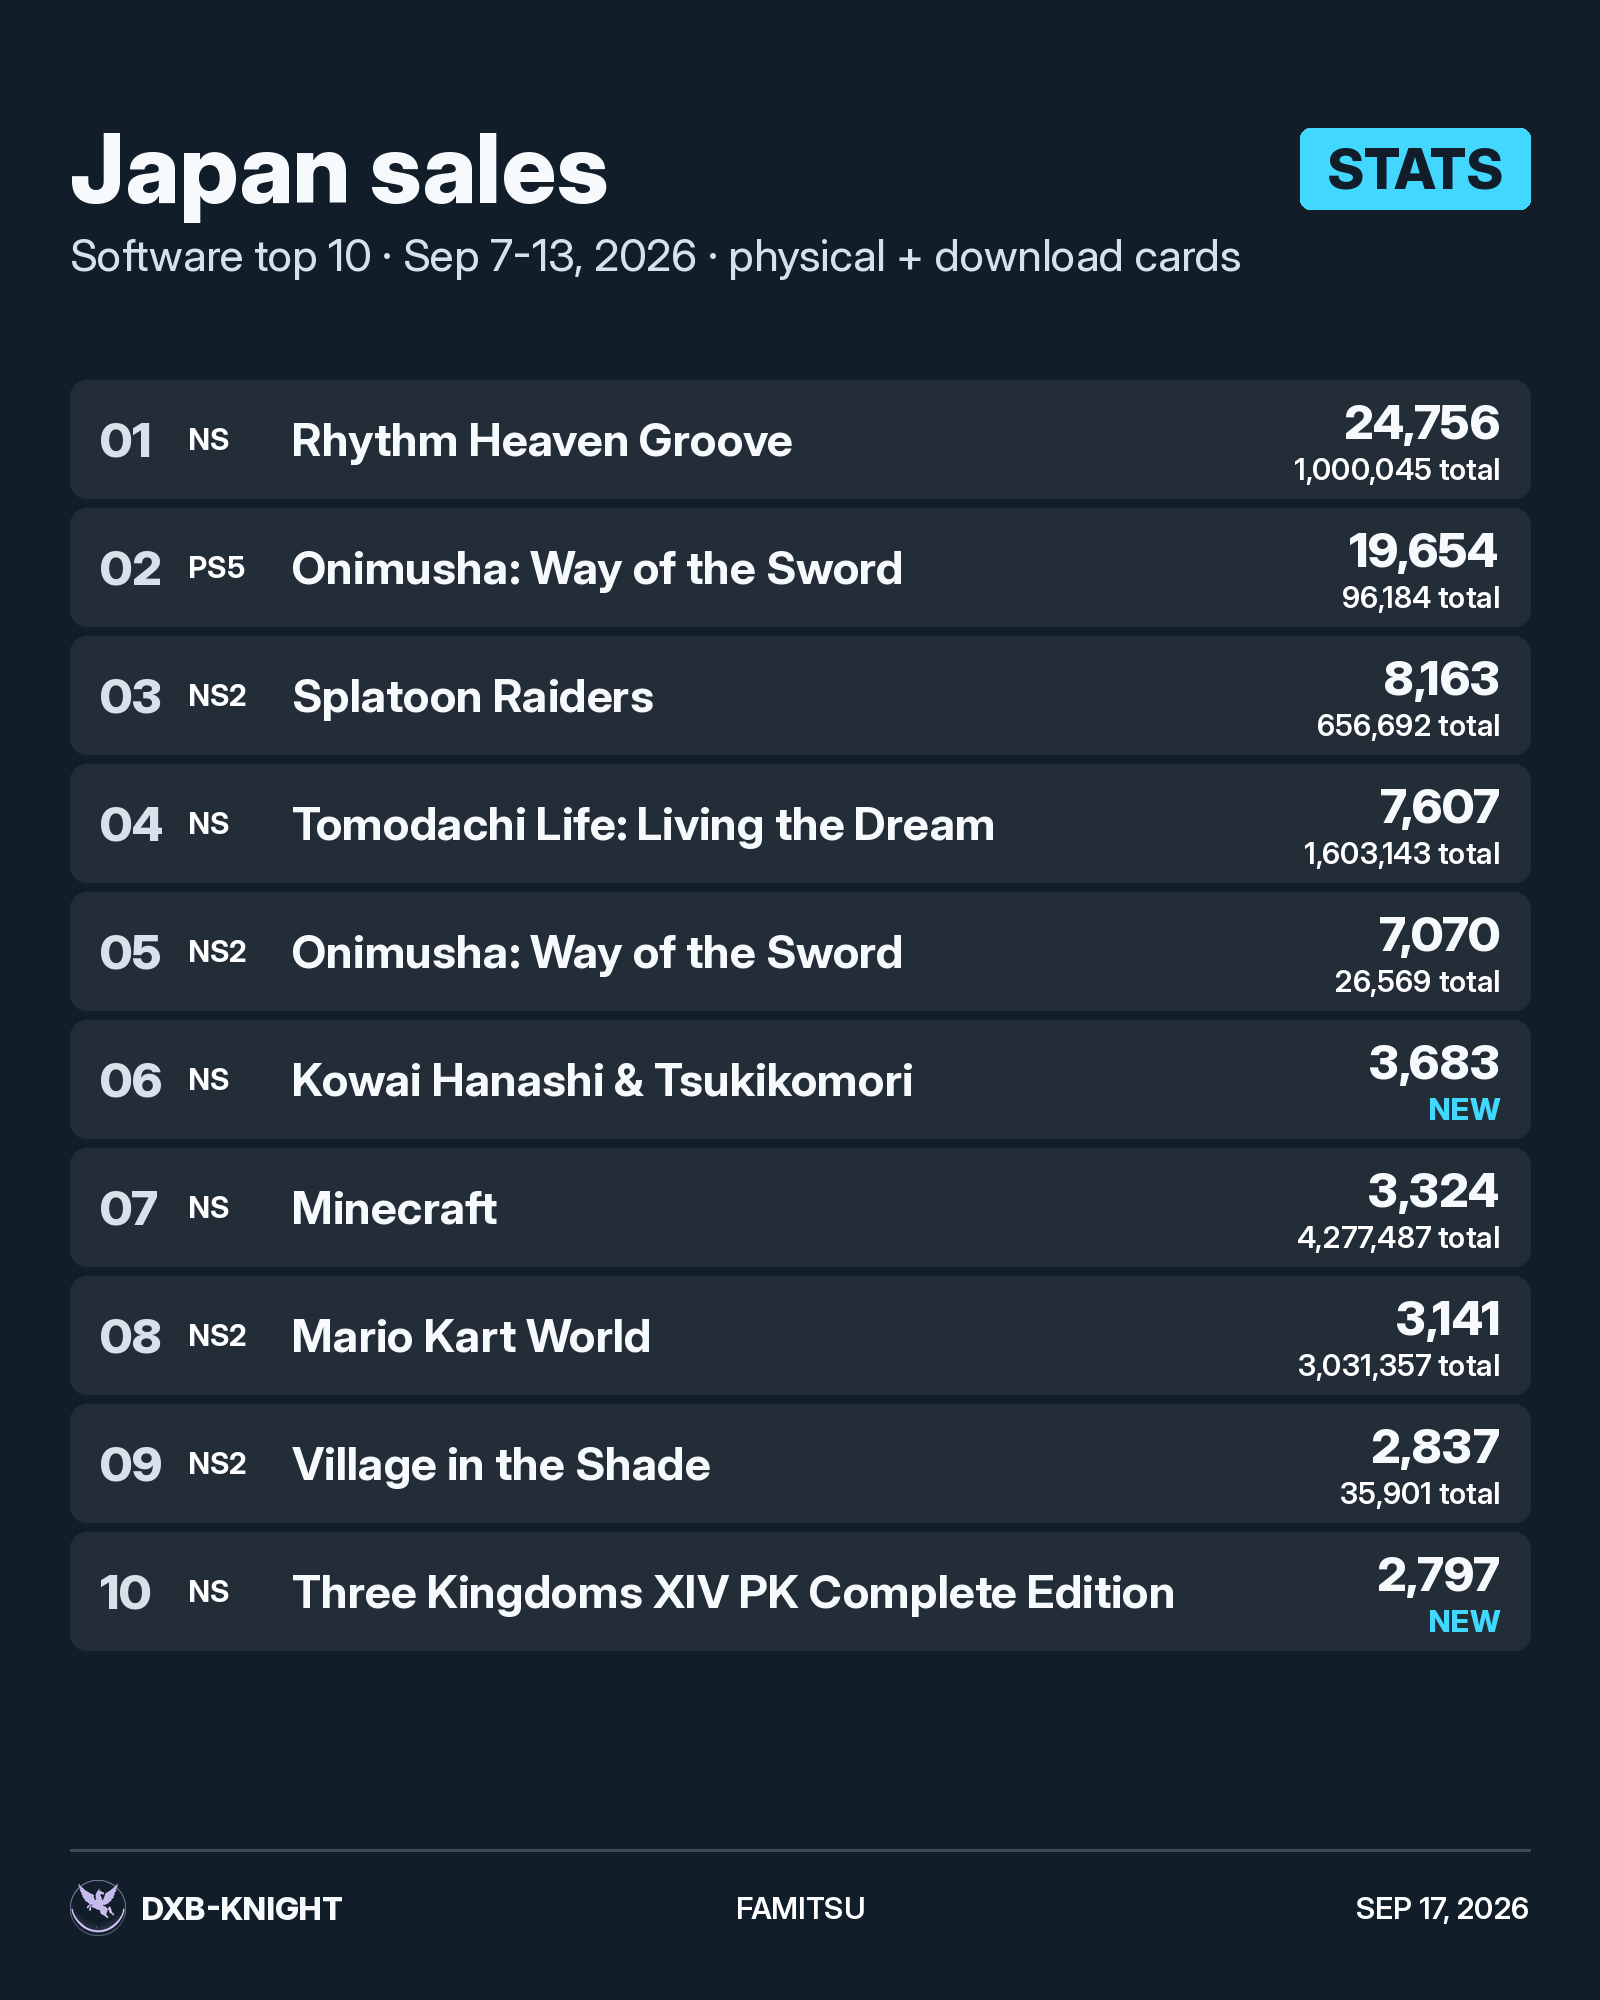
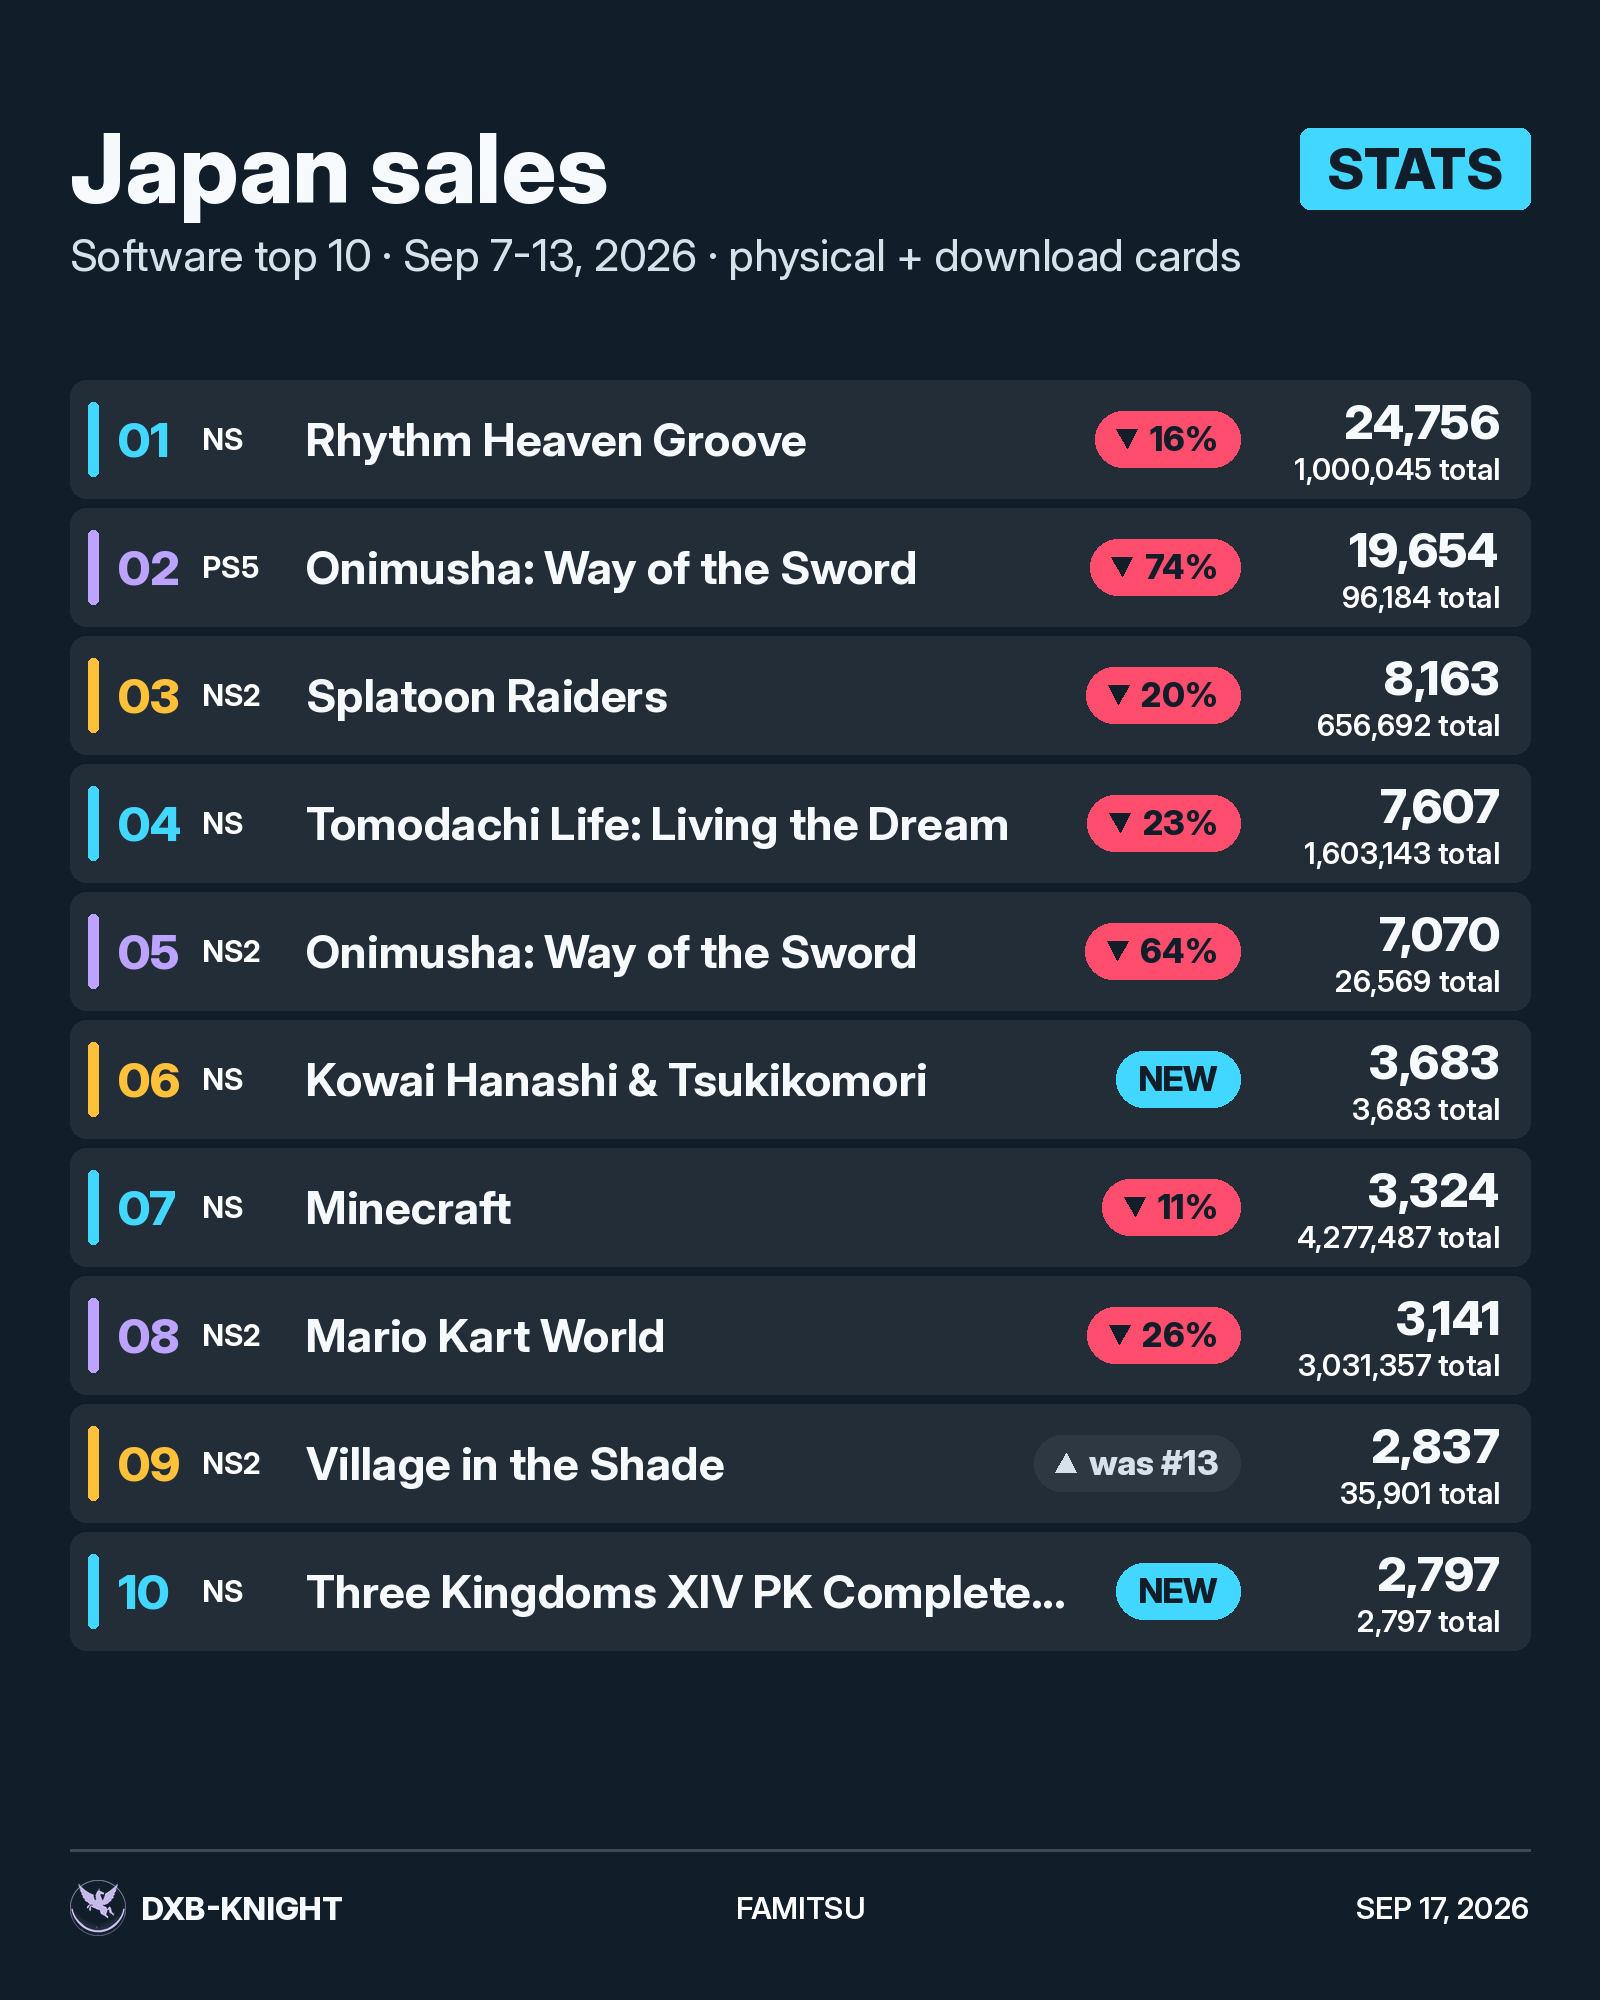
Famitsu cards: colour rows and week-on-week change
Claude-Session: https://claude.ai/code/session_015qYCrUw9vCB6HsZeWYmnB1

diff --git a/templates/famitsu.py b/templates/famitsu.py
@@ -4,7 +4,12 @@ Famitsu posts the week's estimated physical sales (packages, download cards
 and pre-installs) on famitsu.com, usually Thursday 22:00 JST (17:00 Dubai).
 Holiday weeks move: the article ends with the next date ("次回は...に掲載予定").
 
-    python3 templates/famitsu.py <famitsu article url> [out-stem]
+    python3 templates/famitsu.py <this week url> <out-stem> <date> [last week url]
+
+With last week's article the cards show week-on-week change: a percentage
+for every hardware family and for every title that was in last week's top
+10. Famitsu prints each title's previous rank but not its previous number,
+so a title that climbed in from outside the top 10 shows its old rank.
 
 Titles are translated through TITLES below. An unknown Japanese title stops
 the run and names itself, so nothing goes out with a guessed English name:
@@ -44,6 +49,20 @@ FAMILIES = [
     ('Xbox Series', ['Xbox Series X', 'Xbox Series X デジタルエディション',
                      'Xbox Series S']),
 ]
+SHORT = {'Switch2': 'Switch 2', 'Switch（有機ELモデル）': 'OLED',
+         'Switch Lite': 'Lite', 'Switch': 'Original',
+         'PS5 デジタル・エディション': 'Digital', 'PS5 Pro': 'Pro',
+         'PS5': 'Standard', 'Xbox Series X': 'Series X',
+         'Xbox Series X デジタルエディション': 'Series X Digital',
+         'Xbox Series S': 'Series S'}
+
+# Week-on-week colours. Green is not in the sheet palette: up and down need
+# to read at a glance, and every reader already knows green up, red down.
+UP, DOWN = flex.hx('#3DDC97'), flex.ACCENTS['rose']
+
+# The list cycle without rose: once red means "down", a red row or a red
+# hardware number next to a green chip reads as a fall.
+CYCLE = ('cyan', 'lavender', 'amber')
 
 
 def jnum(s):
@@ -75,8 +94,10 @@ def parse(lines):
         rank, prev, plat, jp = m.groups()
         week = jnum(re.match(r'([\d万]+)本', lines[i + 1]).group(1))
         life = jnum(re.search(r'累計([\d万]+)本', lines[i + 2]).group(1))
+        was = re.match(r'前回(\d+)位', prev)
         software.append(dict(rank=int(rank), new=prev == '初登場', plat=plat,
-                             jp=jp.strip(), week=week, life=life))
+                             jp=jp.strip(), week=week, life=life,
+                             was=int(was.group(1)) if was else None))
     hardware = {}
     for ln in lines:
         m = re.match(r'(.+?)／(\d+)台（累計([\d万]+)台）', ln)
@@ -91,7 +112,16 @@ def english(jp):
     return TITLES[jp]
 
 
-def render(url, stem, date, background='reported'):
+def families(hardware):
+    out = []
+    for name, keys in FAMILIES:
+        models = [(k, *hardware[k]) for k in keys if k in hardware]
+        if models:
+            out.append((name, sum(m[1] for m in models), models))
+    return out
+
+
+def render(url, stem, date, prev_url=None, background='reported'):
     period, nxt, software, hardware = parse(fetch(url))
     y, m1, d1, m2, d2 = period.groups()
     months = ['Jan', 'Feb', 'Mar', 'Apr', 'May', 'Jun', 'Jul', 'Aug', 'Sep',
@@ -99,12 +129,20 @@ def render(url, stem, date, background='reported'):
     span = (f'{months[int(m1) - 1]} {d1}-{d2}' if m1 == m2 else
             f'{months[int(m1) - 1]} {d1} to {months[int(m2) - 1]} {d2}')
 
+    last_sw, last_hw = {}, {}
+    if prev_url:
+        _, _, psw, phw = parse(fetch(prev_url))
+        last_sw = {(s['plat'], s['jp']): s['week'] for s in psw}
+        last_hw = {name: week for name, week, _ in families(phw)}
+    for s in software:
+        s['last'] = last_sw.get((s['plat'], s['jp']))
+
     sub = f'{span}, {y} · physical + download cards'
     software_card(software, f'Software top 10 · {sub}', date,
-                  f'{stem}-software.png', background)
-    hardware_card(hardware, f'Hardware · {sub}', date,
+                  f'{stem}-software.png', background, bool(prev_url))
+    hardware_card(hardware, last_hw, f'Hardware · {sub}', date,
                   f'{stem}-hardware.png', background)
-    return software, hardware, nxt
+    return software, hardware, last_hw, nxt
 
 
 def _canvas(header, subheader, background):
@@ -124,10 +162,51 @@ def _fit(d, text, font, width):
     return text.rstrip() + '...'
 
 
-def software_card(software, subheader, date, out, background='reported'):
-    """Ten rows, each with the week's number and, under it, the lifetime
-    total or NEW for a first-week entry. The lifetime is the part Famitsu
-    readers look for, and the combined `charts` card had no room for it."""
+def pct(now, before):
+    return None if not before else round((now - before) * 100 / before)
+
+
+def pill(d, x_right, cy, text, fill, ink, arrow=None, size=34):
+    """A filled chip, right-aligned at x_right and centred on cy, with an
+    optional drawn triangle (drawn, not a glyph, so no font can drop it).
+    Returns the chip's left edge."""
+    f = flex.F(size, 800)
+    tw = d.textlength(text, font=f)
+    tri = size * 0.62 if arrow else 0
+    gap = 12 if arrow else 0
+    w = 22 + tri + gap + tw + 22
+    h = size + 22
+    x0 = x_right - w
+    d.rounded_rectangle([x0, cy - h / 2, x_right, cy + h / 2], radius=h / 2,
+                        fill=fill)
+    tx = x0 + 22
+    if arrow:
+        half = tri / 2
+        top, bot = cy - tri * 0.45, cy + tri * 0.45
+        pts = ([(tx, bot), (tx + tri, bot), (tx + half, top)] if arrow == 'up'
+               else [(tx, top), (tx + tri, top), (tx + half, bot)])
+        d.polygon(pts, fill=ink)
+        tx += tri + gap
+    d.text((tx, cy), text, font=f, fill=ink, anchor='lm')
+    return x0
+
+
+def change_pill(d, x_right, cy, change, bg, muted, size=34):
+    if change is None:
+        return None
+    if change > 0:
+        return pill(d, x_right, cy, f'{change}%', UP, bg, 'up', size)
+    if change < 0:
+        return pill(d, x_right, cy, f'{-change}%', DOWN, bg, 'down', size)
+    return pill(d, x_right, cy, '0%', muted, bg, None, size)
+
+
+def software_card(software, subheader, date, out, background='reported',
+                  compare=False):
+    """Ten rows. Each carries a colour bar and rank in the list cycle, the
+    week's number with the lifetime total under it, and, when last week is
+    known, a change chip: the percentage for a title that was in last week's
+    top 10, NEW for a debut, or its old rank for a climber from outside."""
     F, M, W = flex.F, flex.M, flex.W
     im, d, bg, panel, panel2, edge, acc = _canvas('Japan sales', subheader,
                                                   background)
@@ -135,85 +214,91 @@ def software_card(software, subheader, date, out, background='reported'):
     rf, pf, tf = F(48, 800), F(30, 700), F(46, 700)
     nf, lf = F(48, 800), F(30, 600)
     y, ROW, STEP = 380, 118, 128
-    for s in software[:10]:
+    for i, s in enumerate(software[:10]):
+        colour = flex.ACCENTS[CYCLE[i % len(CYCLE)]]
         d.rounded_rectangle([M, y, W - M, y + ROW], radius=16, fill=panel)
+        d.rounded_rectangle([M + 18, y + 22, M + 28, y + ROW - 22], radius=5,
+                            fill=colour)
         mid = y + ROW / 2
-        d.text((M + 30, mid), f'{s["rank"]:02d}', font=rf, fill=flex.BODY,
+        d.text((M + 48, mid), f'{s["rank"]:02d}', font=rf, fill=colour,
                anchor='lm')
-        d.text((M + 118, mid), PLATFORMS.get(s['plat'], s['plat']), font=pf,
+        d.text((M + 132, mid), PLATFORMS.get(s['plat'], s['plat']), font=pf,
                fill=muted, anchor='lm')
-        d.text((M + 222, mid), _fit(d, english(s['jp']), tf, 900), font=tf,
-               fill=flex.INK, anchor='lm')
+
+        chip_right = W - M - 290
+        if s['new']:
+            left = pill(d, chip_right, mid, 'NEW', acc, bg)
+        elif compare and s['last']:
+            left = change_pill(d, chip_right, mid, pct(s['week'], s['last']),
+                               bg, muted)
+        elif compare and s['was']:
+            left = pill(d, chip_right, mid, f'was #{s["was"]}', panel2,
+                        flex.BODY, 'up' if s['was'] > s['rank'] else 'down')
+        else:
+            left = None
+        title_w = (left if left else W - M - 290) - (M + 236) - 30
+        d.text((M + 236, mid), _fit(d, english(s['jp']), tf, title_w),
+               font=tf, fill=flex.INK, anchor='lm')
+
         d.text((W - M - 30, mid - 18), f'{s["week"]:,}', font=nf,
                fill=flex.INK, anchor='rm')
-        if s['new']:
-            d.text((W - M - 30, mid + 30), 'NEW', font=F(30, 800), fill=acc,
-                   anchor='rm')
-        else:
-            d.text((W - M - 30, mid + 30), f'{s["life"]:,} total', font=lf,
-                   fill=muted, anchor='rm')
+        d.text((W - M - 30, mid + 30), f'{s["life"]:,} total', font=lf,
+               fill=muted, anchor='rm')
         y += STEP
     flex.footer(im, bg, 'Famitsu', date, edge).save(out)
     return out
 
 
-def hardware_card(hardware, subheader, date, out, background='reported'):
-    """One block per family: the week's total and a bar against the week's
-    leader, then the models underneath with their lifetime numbers. One
-    colour for every bar, for the same reason `charts` uses one: a colour
-    per platform reads as a platform key."""
+def hardware_card(hardware, last, subheader, date, out, background='reported'):
+    """One block per family: the week's total in its colour, a change chip
+    against last week, a bar against the week's leader, then the models
+    with the family's lifetime total. Colours follow the list cycle by
+    position, so they decorate the chart rather than stand for a platform."""
     F, M, W = flex.F, flex.M, flex.W
     im, d, bg, panel, panel2, edge, acc = _canvas('Japan sales', subheader,
                                                   background)
     muted = flex.lift(flex.BODY, -0.30, bg)
-    fams = []
-    for name, keys in FAMILIES:
-        models = [(k, *hardware[k]) for k in keys if k in hardware]
-        if models:
-            fams.append((name, sum(m[1] for m in models), models))
+    fams = families(hardware)
     top = max(f[1] for f in fams) or 1
-    SHORT = {'Switch2': 'Switch 2', 'Switch（有機ELモデル）': 'OLED',
-             'Switch Lite': 'Lite', 'Switch': 'Original',
-             'PS5 デジタル・エディション': 'Digital', 'PS5 Pro': 'Pro',
-             'PS5': 'Standard', 'Xbox Series X': 'Series X',
-             'Xbox Series X デジタルエディション': 'Series X Digital',
-             'Xbox Series S': 'Series S'}
     y = 400
-    for name, week, models in fams:
+    for i, (name, week, models) in enumerate(fams):
+        colour = flex.ACCENTS[CYCLE[i % len(CYCLE)]]
         h = 300 if len(models) > 1 else 220
         d.rounded_rectangle([M, y, W - M, y + h], radius=20, fill=panel)
-        d.text((M + 40, y + 62), name, font=F(64, 800), fill=flex.INK,
-               anchor='lm')
-        d.text((W - M - 40, y + 62), f'{week:,}', font=F(64, 800), fill=acc,
-               anchor='rm')
+        nf = F(64, 800)
+        d.text((M + 40, y + 62), name, font=nf, fill=flex.INK, anchor='lm')
+        num = f'{week:,}'
+        d.text((W - M - 40, y + 62), num, font=nf, fill=colour, anchor='rm')
+        change_pill(d, W - M - 40 - d.textlength(num, font=nf) - 28, y + 62,
+                    pct(week, last.get(name)), bg, muted, size=36)
         bx0, bx1, by = M + 40, W - M - 40, y + 118
         d.rounded_rectangle([bx0, by, bx1, by + 22], radius=11, fill=panel2)
         fill = bx0 + max(22, int((bx1 - bx0) * week / top))
-        d.rounded_rectangle([bx0, by, fill, by + 22], radius=11, fill=acc)
+        d.rounded_rectangle([bx0, by, fill, by + 22], radius=11, fill=colour)
+        life = sum(m[2] for m in models)
         if len(models) > 1:
             parts = ' · '.join(f'{SHORT.get(k, k)} {w:,}' for k, w, _ in models)
             d.text((M + 40, y + 190), parts, font=F(36, 600), fill=flex.BODY,
                    anchor='lm')
-            life = sum(m[2] for m in models)
             d.text((M + 40, y + 248), f'{life:,} total', font=F(32, 600),
                    fill=muted, anchor='lm')
         else:
-            d.text((M + 40, y + 180), f'{models[0][2]:,} total',
-                   font=F(36, 600), fill=muted, anchor='lm')
+            d.text((M + 40, y + 180), f'{life:,} total', font=F(36, 600),
+                   fill=muted, anchor='lm')
         y += h + 30
     flex.footer(im, bg, 'Famitsu', date, edge).save(out)
     return out
 
 
 if __name__ == '__main__':
-    url = sys.argv[1]
-    stem = sys.argv[2] if len(sys.argv) > 2 else 'famitsu'
-    date = sys.argv[3] if len(sys.argv) > 3 else ''
-    sw, hw, nxt = render(url, stem, date)
+    url, stem, date = sys.argv[1], sys.argv[2], sys.argv[3]
+    prev = sys.argv[4] if len(sys.argv) > 4 else None
+    sw, hw, last_hw, nxt = render(url, stem, date, prev)
     for s in sw:
         print(s['rank'], s['plat'], english(s['jp']), s['week'], s['life'],
-              'NEW' if s['new'] else '')
-    for k, v in hw.items():
-        print(k, *v)
+              'NEW' if s['new'] else f'last {s["last"]} (was #{s["was"]})',
+              pct(s['week'], s['last']))
+    for name, week, _ in families(hw):
+        print(name, week, 'last', last_hw.get(name), pct(week, last_hw.get(name)))
     if nxt:
         print('next Famitsu post:', '/'.join(nxt.groups()))

diff --git a/CLAUDE.md b/CLAUDE.md
@@ -78,9 +78,10 @@ When the template choice is not obvious, ask rather than guess.
 Famitsu's weekly physical sales go out as fast as possible after Famitsu
 posts them (usually Thursday 22:00 JST, 17:00 Dubai; holiday weeks move,
 and each article ends with the next date, "次回は...に掲載予定").
-`templates/famitsu.py <famitsu article url> <out-stem> <date>` reads
-Famitsu's own article, not Gematsu's rewrite, and renders a software top 10
-card and a hardware card for the same post. An untranslated title stops
+`templates/famitsu.py <this week url> <out-stem> <date> <last week url>`
+reads Famitsu's own articles, not Gematsu's rewrite, and renders a software
+top 10 card and a hardware card for the same post, with week-on-week change
+(green up, red down; red is kept out of the row colours for that reason). An untranslated title stops
 the run: add the publisher's English name to `TITLES`. Chip STATS, cold,
 reported unless Mohammad gives a take.
 
